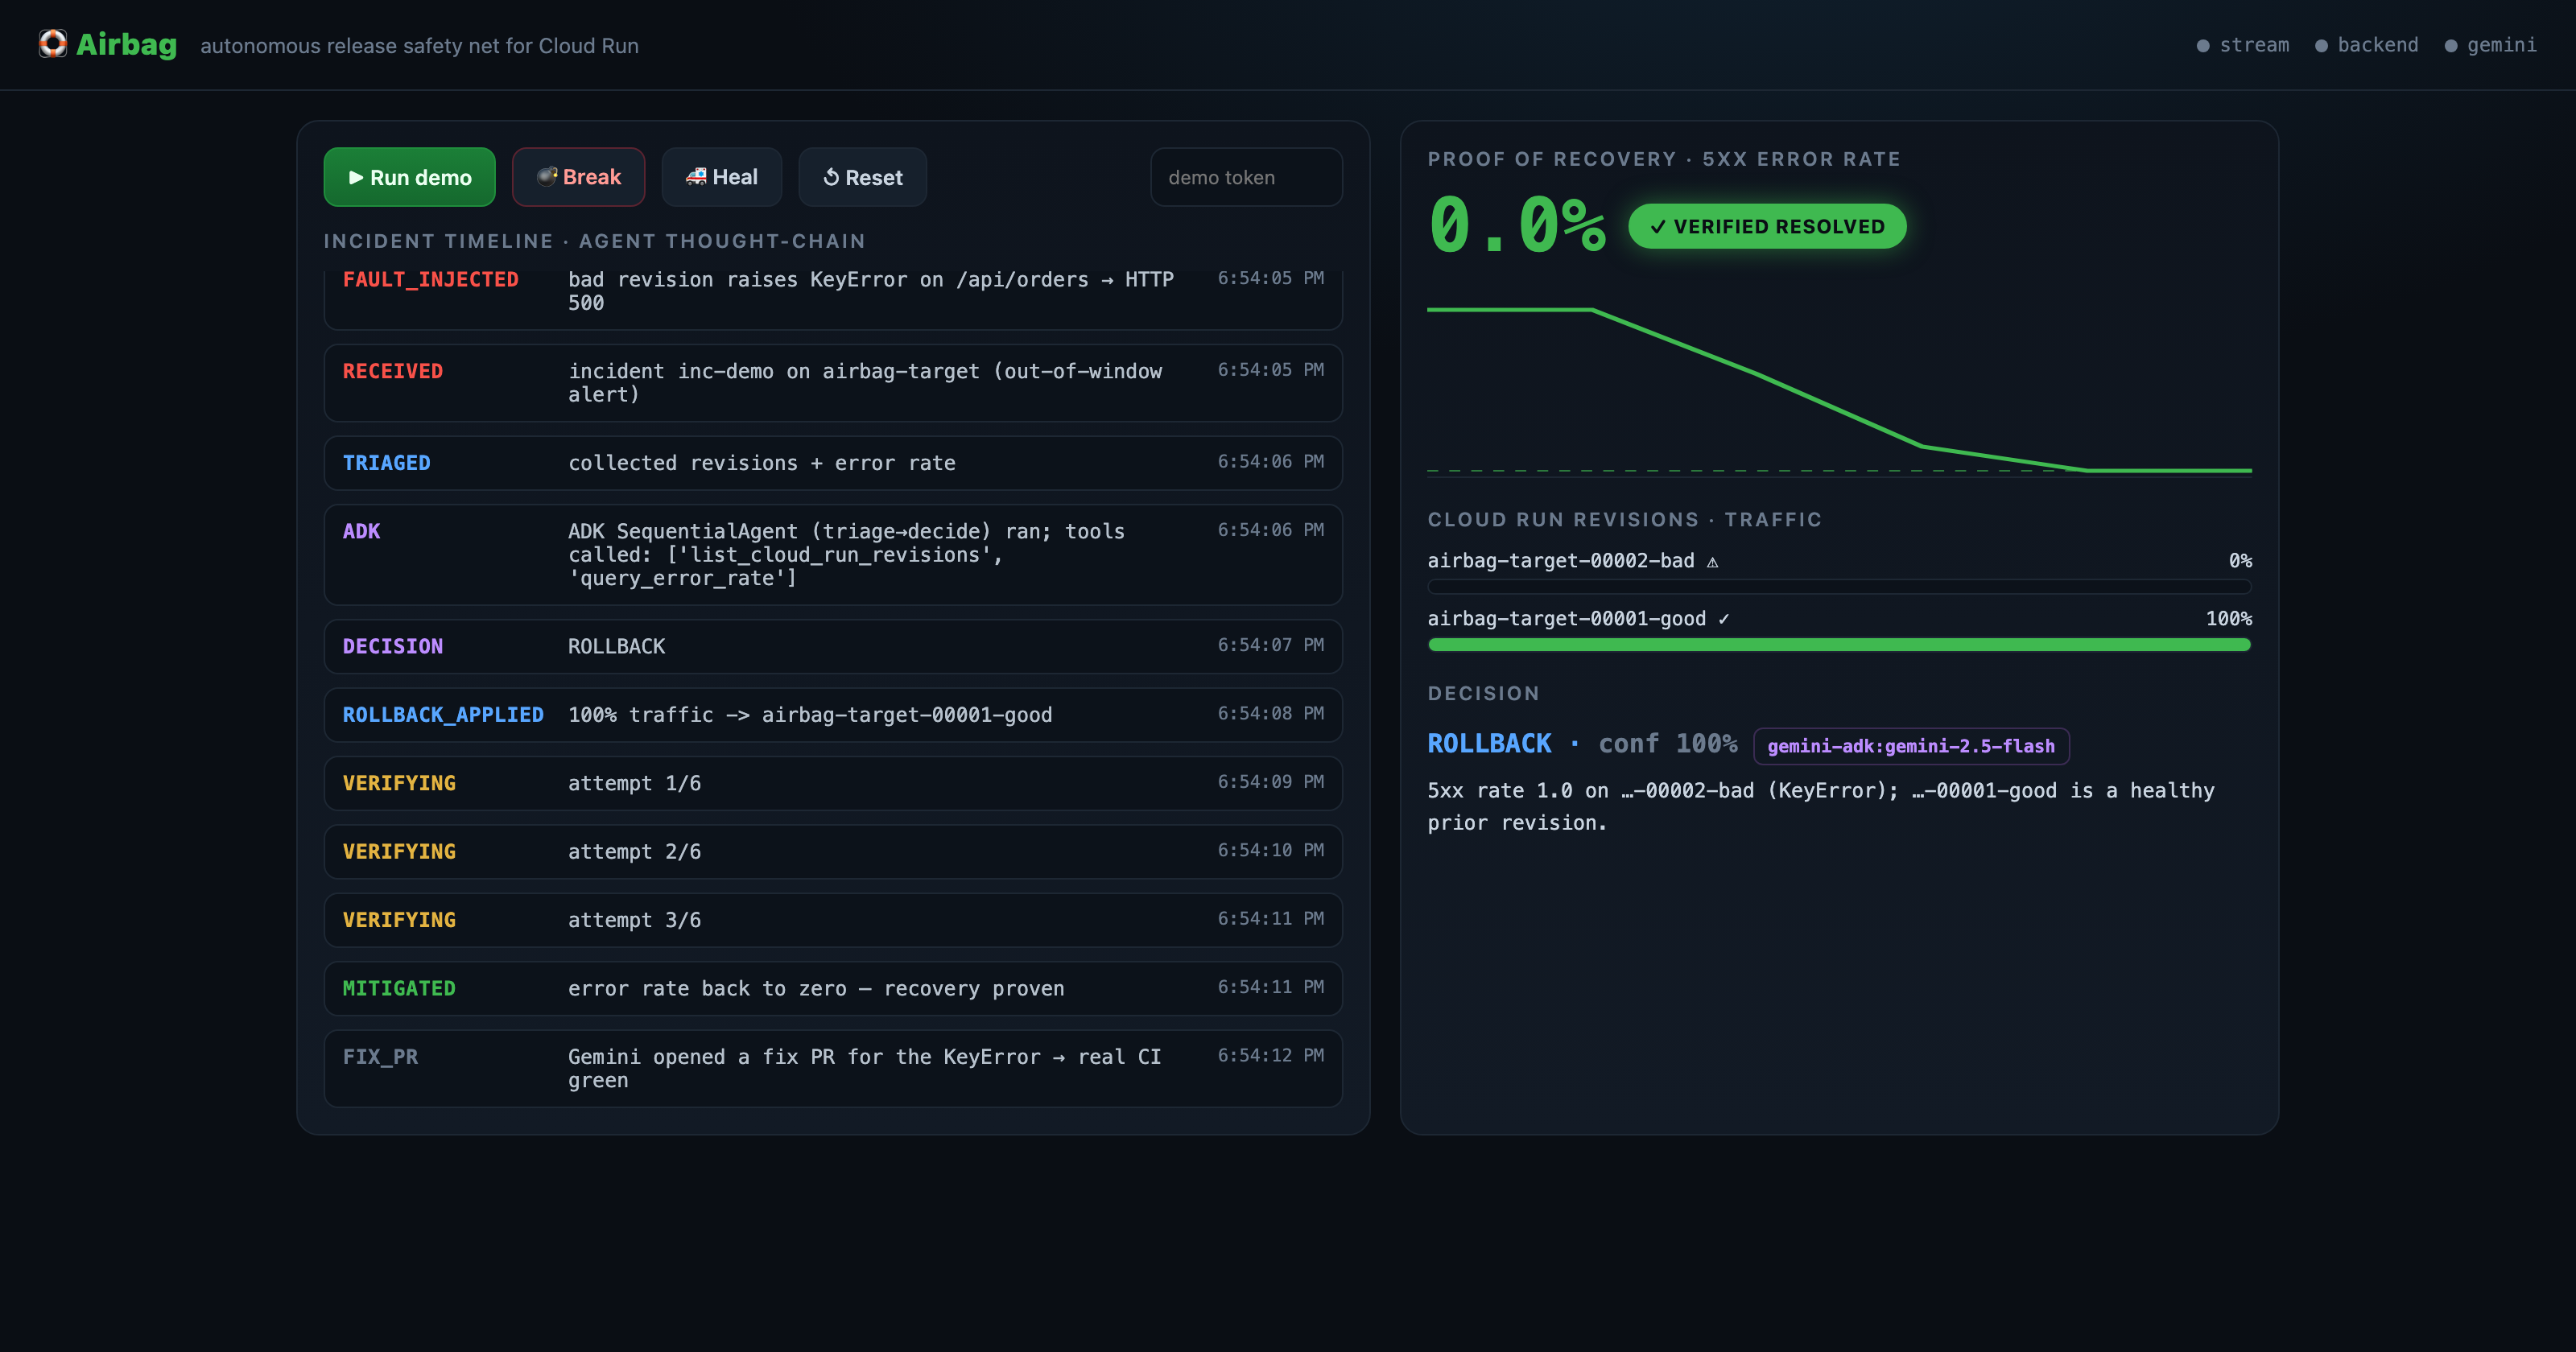
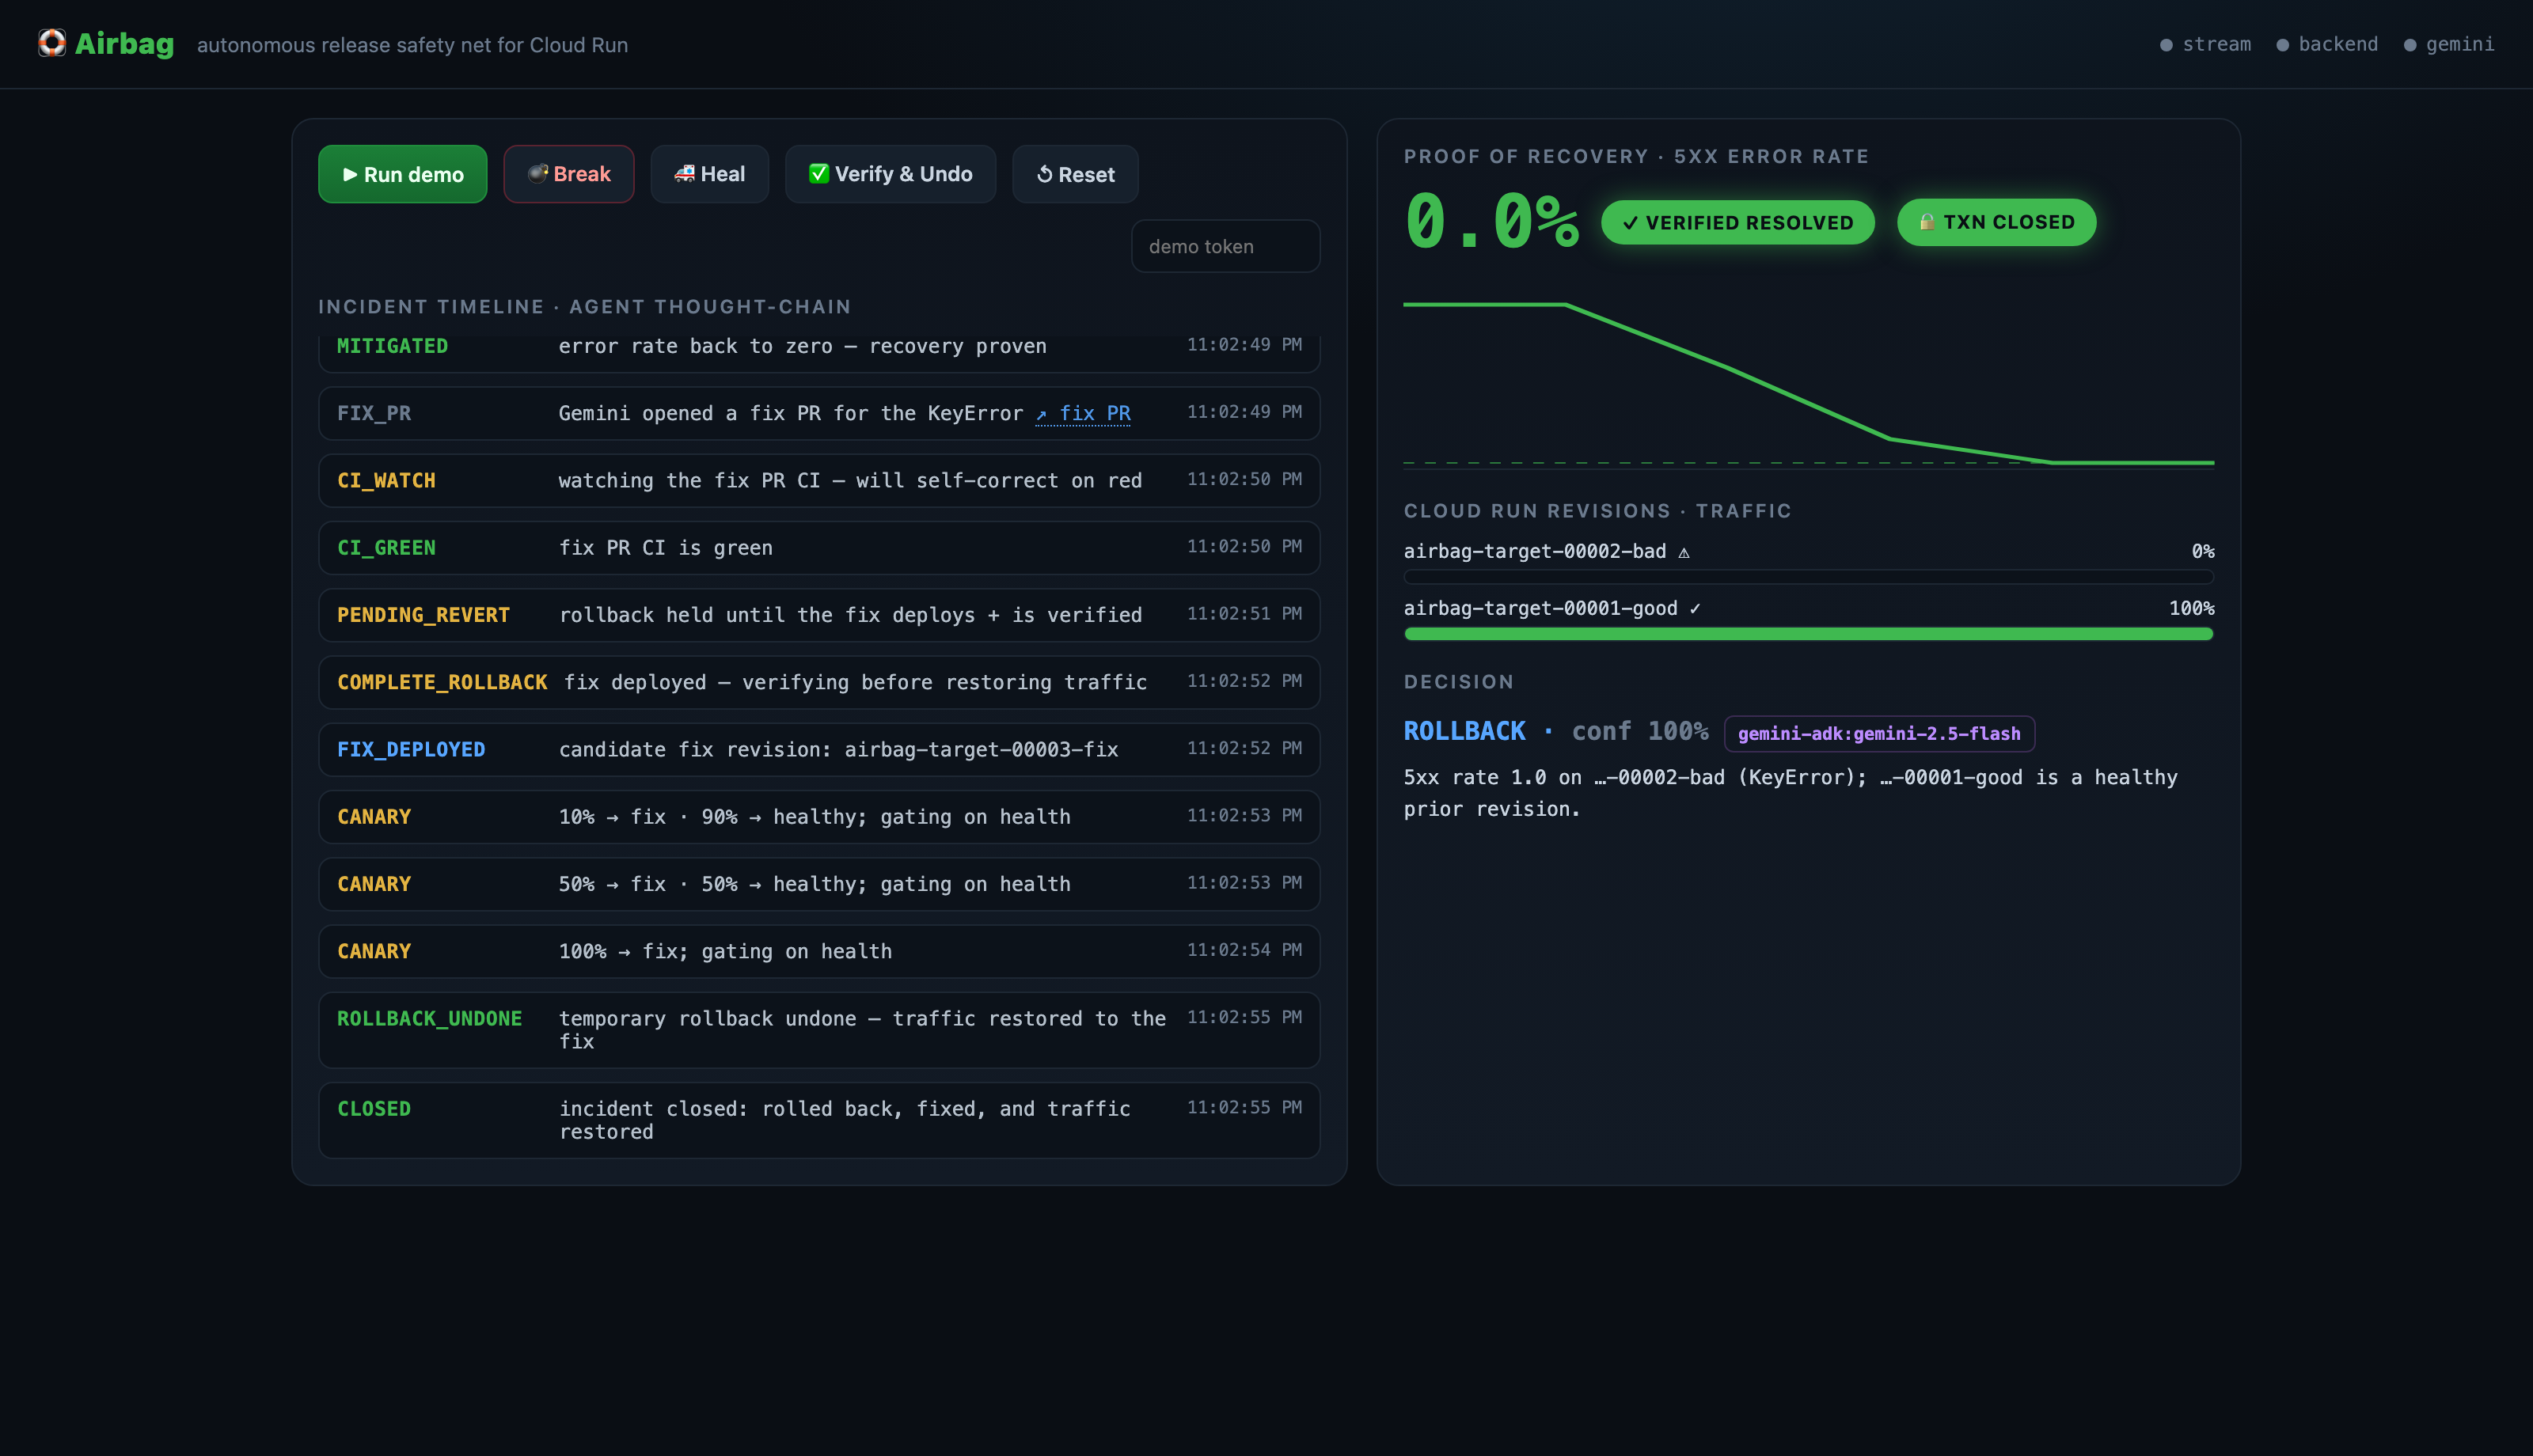
feat(ux): dashboard polish — clickable fix-PR link, transaction chip, full story, responsive
- timeline rows with a pr_url now render a clickable "↗ fix PR" link.
- transaction-state chip next to the recovery gate: ⏳ ROLLBACK HELD → ↻ RESTORING →
  🔒 TXN CLOSED (or ⚠ MANUAL on compensation).
- offline self-play now walks the FULL story (heal → fix PR → CI green → pending-revert →
  canary 10/50/100 → rollback undone → CLOSED) so the no-server demo + the screenshot show
  the whole loop, including the P1/P2 polish.
- responsive: columns stack < 880px.
- refreshed docs/dashboard.png.

diff --git a/agent/static/dashboard.html b/agent/static/dashboard.html
@@ -59,6 +59,9 @@
     border:1px solid var(--line);color:var(--muted)}
   .badge.pending{color:var(--amber);border-color:#4a3c17;background:#1c1708}
   .badge.verified{color:#0a0e14;background:var(--green);border-color:var(--green);box-shadow:0 0 16px rgba(63,185,80,.5)}
+  .badge.manual{color:#fff;background:var(--red);border-color:var(--red)}
+  .prlink{color:var(--cyan);text-decoration:none;border-bottom:1px dotted var(--cyan)}
+  @media(max-width:880px){.wrap{grid-template-columns:1fr}#timeline{height:380px}}
   svg{width:100%;height:120px;display:block}
   .axis{stroke:var(--line);stroke-width:1}
   .curve{fill:none;stroke:var(--red);stroke-width:2.5;transition:.3s}
@@ -110,6 +113,7 @@
     <div class="gate">
       <div class="big" id="rate">—</div>
       <div class="badge pending" id="gate">PENDING</div>
+      <span class="badge" id="txn" style="display:none"></span>
     </div>
     <svg viewBox="0 0 300 120" preserveAspectRatio="none">
       <line class="axis" x1="0" y1="119" x2="300" y2="119"/>
@@ -154,15 +158,20 @@ function setDot(id,on){ $(id).classList.toggle('on', !!on); }
 
 function addEvent(ev){
   const stage = ev.stage || '';
-  if(stage==='RUN_START'){ tl.innerHTML=''; series=[]; badRev=goodRev=null; drawCurve(); $('#gate').className='badge pending'; $('#gate').textContent='PENDING'; $('#rate').textContent='—'; $('#decision').innerHTML='<span class="muted">analyzing…</span>'; $('#report').innerHTML=''; }
+  if(stage==='RUN_START'){ tl.innerHTML=''; series=[]; badRev=goodRev=null; drawCurve(); $('#gate').className='badge pending'; $('#gate').textContent='PENDING'; $('#rate').textContent='—'; $('#decision').innerHTML='<span class="muted">analyzing…</span>'; $('#report').innerHTML=''; $('#txn').style.display='none'; }
   if(ev.incident_id) currentIncident=ev.incident_id;
   if(TERMINAL.has(stage)) showReport();
+  if(stage==='PENDING_REVERT') setTxn('⏳ ROLLBACK HELD','pending');
+  if(['COMPLETE_ROLLBACK','FIX_DEPLOYED','REVERIFYING','CANARY'].includes(stage)) setTxn('↻ RESTORING','pending');
+  if(stage==='CLOSED') setTxn('🔒 TXN CLOSED','verified');
+  if(stage==='MANUAL_INTERVENTION') setTxn('⚠ MANUAL','manual');
   if(stage==='CONNECTED'){ setDot('#d-sse',true); setBackend(ev.backend); return; }
 
   const row = document.createElement('div');
   row.className = 'ev s-'+stage;
   const t = ev.ts ? new Date(ev.ts*1000).toLocaleTimeString() : '';
-  row.innerHTML = `<span class="stg">${stage}</span><span class="msg">${esc(ev.msg||'')}</span><span class="t">${t}</span>`;
+  const link = ev.pr_url ? ` <a class="prlink" href="${encodeURI(ev.pr_url)}" target="_blank" rel="noopener">↗ fix PR</a>` : '';
+  row.innerHTML = `<span class="stg">${stage}</span><span class="msg">${esc(ev.msg||'')}${link}</span><span class="t">${t}</span>`;
   tl.appendChild(row); tl.scrollTop = tl.scrollHeight;
 
   if(stage==='TRIAGED'){ renderRevs(ev.revisions); pushRate(ev.error_rate); }
@@ -200,6 +209,7 @@ function drawCurve(){
 function verified(ev){
   const g=$('#gate'); g.className='badge verified'; g.textContent='✓ VERIFIED RESOLVED';
 }
+function setTxn(text,cls){ const t=$('#txn'); t.style.display='inline-block'; t.className='badge '+(cls||''); t.textContent=text; }
 function showReport(){
   if(!currentIncident || !live) return;   // only for real (live) incidents, not the offline self-play
   $('#report').innerHTML = `<a href="/incidents/${encodeURIComponent(currentIncident)}/report" target="_blank"
@@ -276,7 +286,17 @@ const SCRIPT=[
   [900, {stage:'VERIFYING',msg:'attempt 2/6',error_rate:0.15,probe_ok:true}],
   [900, {stage:'VERIFYING',msg:'attempt 3/6',error_rate:0.0,probe_ok:true}],
   [700, {stage:'MITIGATED',msg:'error rate back to zero — recovery proven',before:1.0,after:0.0}],
-  [700, {stage:'FIX_PR',msg:'Gemini opened a fix PR for the KeyError → real CI green'}],
+  [600, {stage:'FIX_PR',msg:'Gemini opened a fix PR for the KeyError',pr_url:'https://github.com/JasonYeYuhe/cloud-run-airbag/pull/3'}],
+  [400, {stage:'CI_WATCH',msg:'watching the fix PR CI — will self-correct on red'}],
+  [800, {stage:'CI_GREEN',msg:'fix PR CI is green'}],
+  [500, {stage:'PENDING_REVERT',msg:'rollback held until the fix deploys + is verified'}],
+  [800, {stage:'COMPLETE_ROLLBACK',msg:'fix deployed — verifying before restoring traffic'}],
+  [500, {stage:'FIX_DEPLOYED',msg:'candidate fix revision: airbag-target-00003-fix'}],
+  [600, {stage:'CANARY',msg:'10% → fix · 90% → healthy; gating on health'}],
+  [600, {stage:'CANARY',msg:'50% → fix · 50% → healthy; gating on health'}],
+  [600, {stage:'CANARY',msg:'100% → fix; gating on health'}],
+  [600, {stage:'ROLLBACK_UNDONE',msg:'temporary rollback undone — traffic restored to the fix'}],
+  [400, {stage:'CLOSED',msg:'incident closed: rolled back, fixed, and traffic restored'}],
 ];
 function playScript(){
   if(live) return;